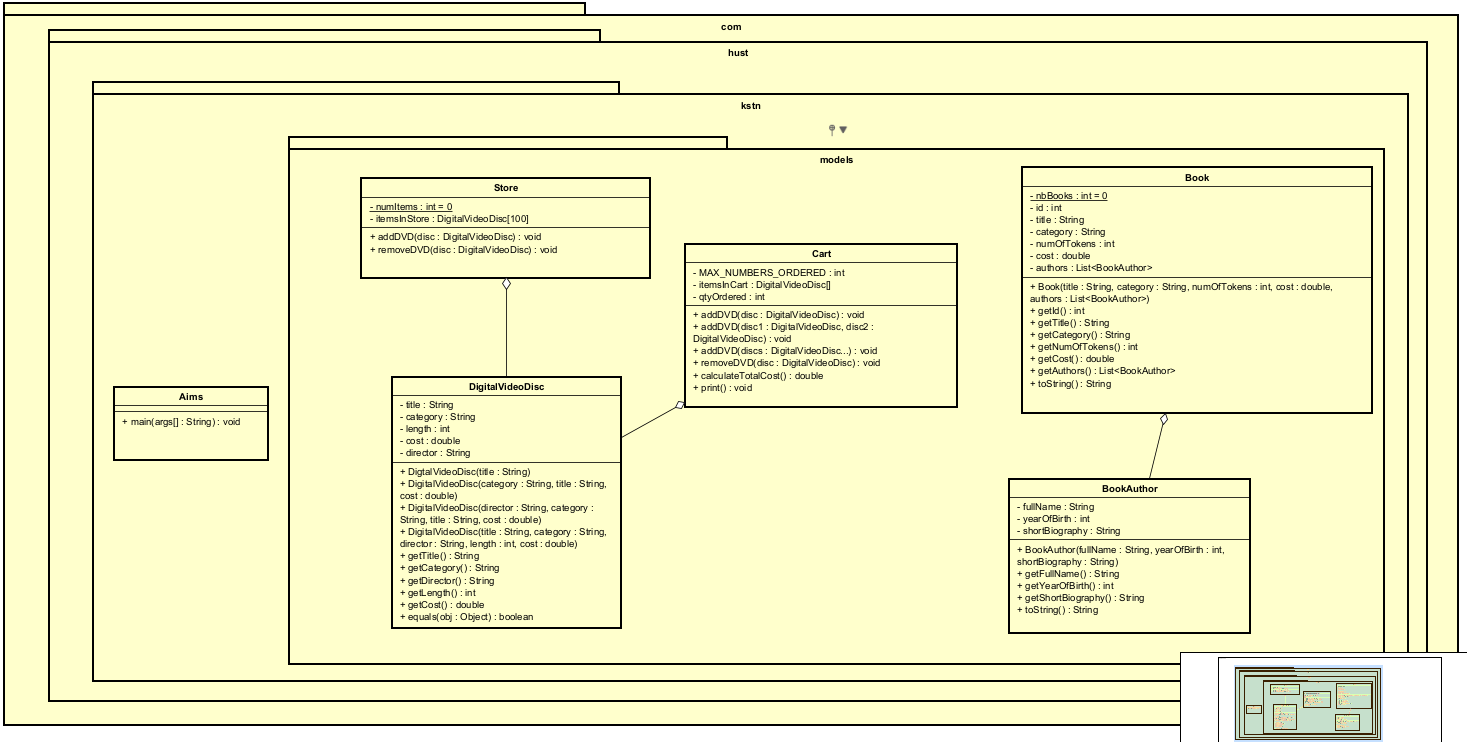
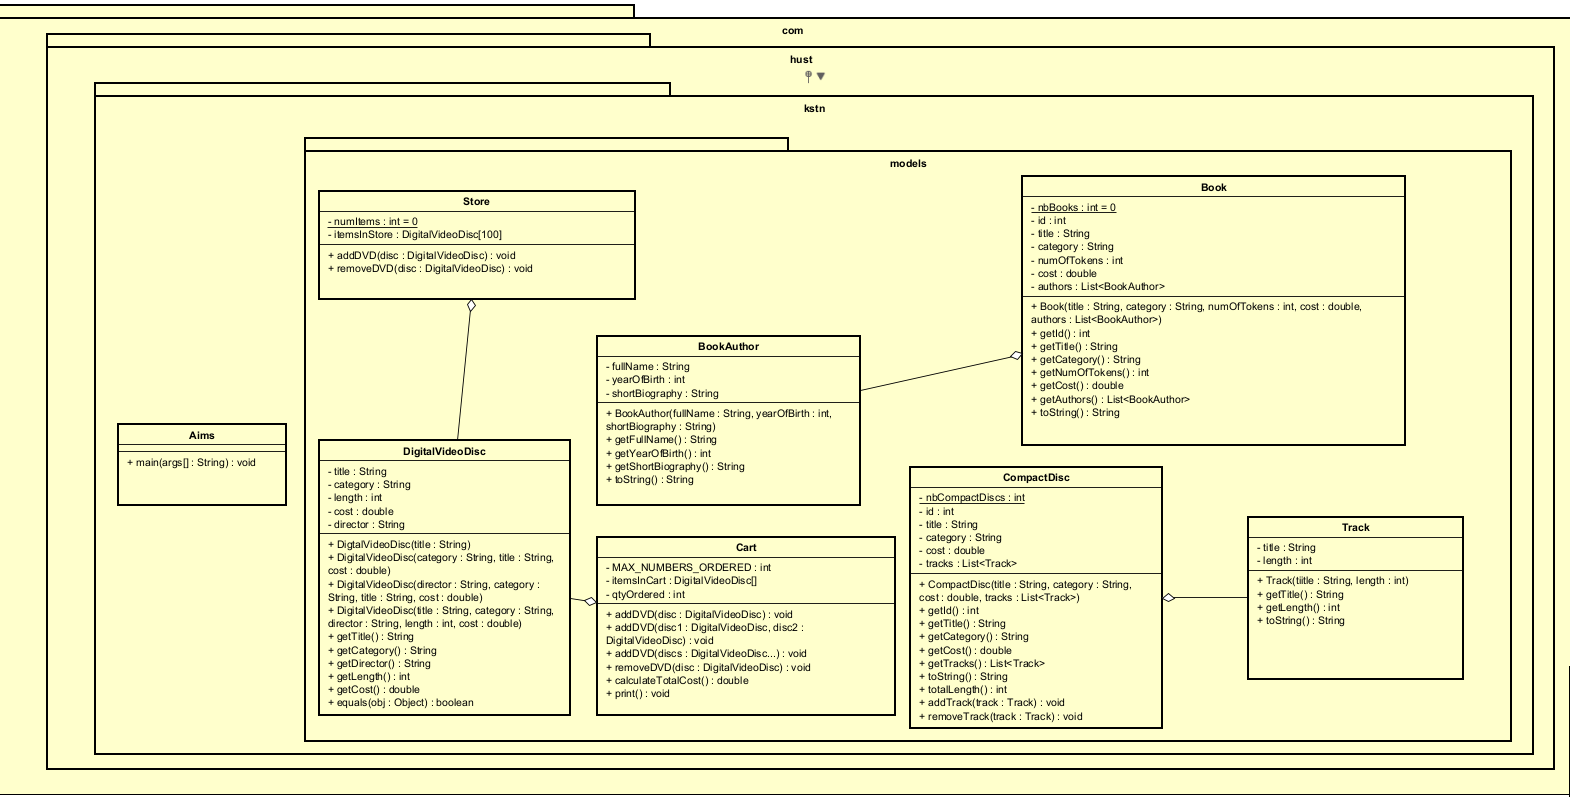
Update ClassDiagram

Changed region(s): [[0.0, 0.0, 1.0, 1.0], [0.3374, 0.372, 0.3681, 0.403], [0.2761, 0.372, 0.3067, 0.403]]

diff --git a/AimsProject/src/com/hust/kstn/test/CompactDiscTest.java b/AimsProject/src/com/hust/kstn/test/CompactDiscTest.java
@@ -1,0 +1,4 @@
+package com.hust.kstn.test;
+
+public class CompactDiscTest {
+}

diff --git a/AimsProject/src/com/hust/kstn/models/CompactDisc.java b/AimsProject/src/com/hust/kstn/models/CompactDisc.java
@@ -1,0 +1,4 @@
+package com.hust.kstn.models;
+
+public class CompactDisc {
+}

diff --git a/AimsProject/src/com/hust/kstn/models/Track.java b/AimsProject/src/com/hust/kstn/models/Track.java
@@ -1,0 +1,4 @@
+package com.hust.kstn.models;
+
+public class Track {
+}
